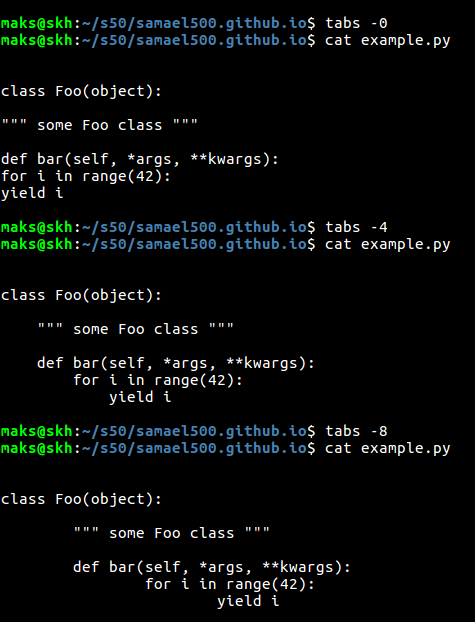
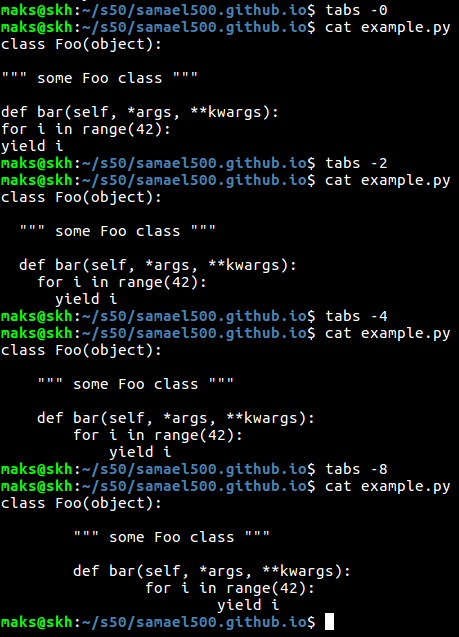
:repeat: add tabs img

Changed region(s): [[0.0, 0.0, 0.976, 1.0], [0.793, 0.4887, 0.976, 0.5498], [0.915, 0.3666, 0.9455, 0.4277]]

diff --git a/example.py b/example.py
@@ -1,0 +1,7 @@
+class Foo(object):
+
+	""" some Foo class """
+
+	def bar(self, *args, **kwargs):
+		for i in range(42):
+			yield i
